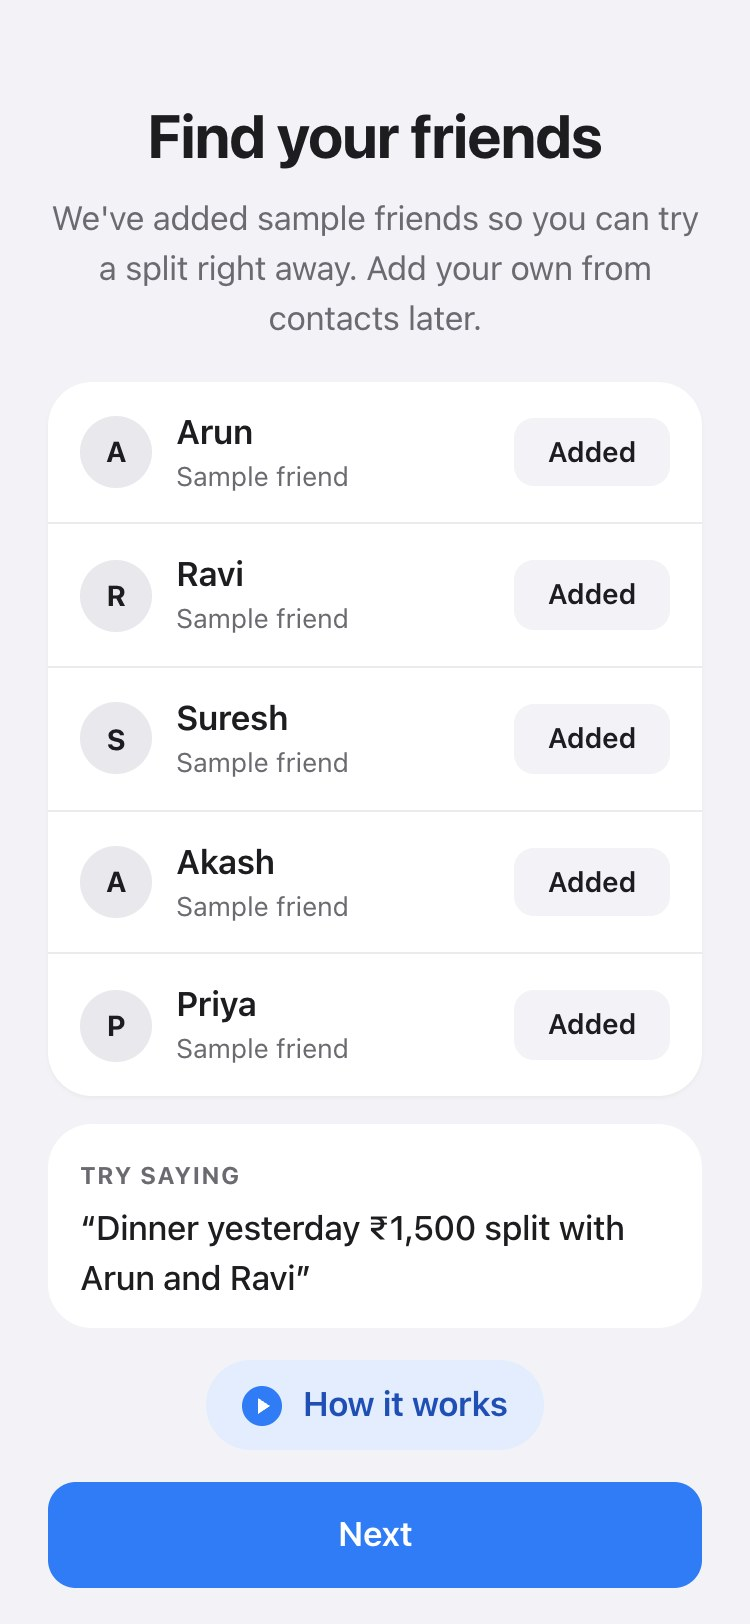
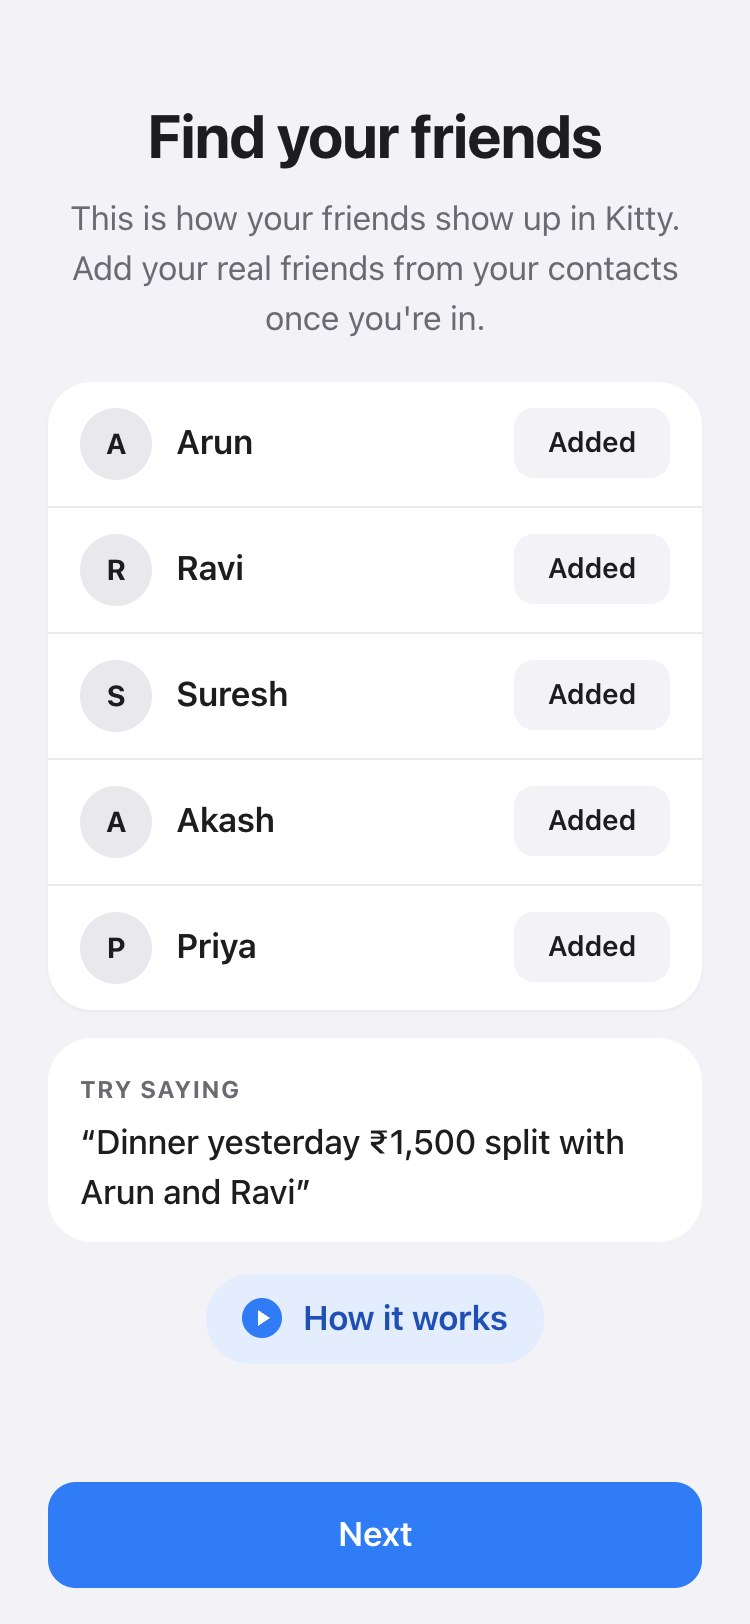
Sample friends only in the tour, no pre-filled text, group step in How it works

diff --git a/public/index.html b/public/index.html
@@ -13,7 +13,7 @@
 <meta name="mobile-web-app-capable" content="yes">
 <meta name="apple-mobile-web-app-title" content="Kitty">
 <meta name="apple-mobile-web-app-status-bar-style" content="default">
-<link rel="stylesheet" href="/static/style.css?v=14">
+<link rel="stylesheet" href="/static/style.css?v=15">
 </head>
 <body>
 <div class="app">
@@ -283,7 +283,7 @@
   <section id="findFriends" class="intro stage" hidden role="dialog" aria-modal="true" aria-label="Find your friends">
     <div class="stageBody">
       <h2 class="slideTitle">Find your friends</h2>
-      <p class="slideText">We've added sample friends so you can try a split right away. Add your own from contacts later.</p>
+      <p class="slideText">This is how your friends show up in Kitty. Add your real friends from your contacts once you're in.</p>
       <ul id="sampleList" class="list findList"></ul>
       <div class="tryCard">
         <span class="tryLabel">Try saying</span>
@@ -304,21 +304,34 @@
           <div class="perm"><span class="permIcon"><svg viewBox="0 0 24 24" aria-hidden="true"><path d="M6 2h12a2 2 0 0 1 2 2v16a2 2 0 0 1-2 2H6a2 2 0 0 1-2-2V4a2 2 0 0 1 2-2Zm6 9a3 3 0 1 0 0-6 3 3 0 0 0 0 6Zm-5 6h10c0-2.2-2.5-4-5-4s-5 1.8-5 4Z"/></svg></span><b>Allow Kitty to see your contacts?</b><small>Names stay on your phone</small><span class="permBtns"><i>Don't allow</i><i class="allow">Allow</i></span></div>
           <ul class="ctList"><li><span class="avatar">A</span>Arun</li><li><span class="avatar">R</span>Ravi</li><li><span class="avatar">S</span>Suresh</li><li><span class="avatar">A</span>Akash</li></ul>
         </div>
-        <!-- Step 2: voice -->
+        <!-- Step 2: make a group -->
         <div class="scene s1">
+          <div class="gTop"><b>Groups</b><span class="gNew">+ New group</span></div>
+          <div class="gForm">
+            <small>Group name</small>
+            <p class="gName"><span id="howGroupName"></span></p>
+            <small>Members</small>
+            <div class="gMembers"><span class="avatar me">Y</span><span class="avatar">A</span><span class="avatar">R</span><span class="avatar">S</span><span class="avatar">A</span></div>
+            <span class="gCreate">Create</span>
+          </div>
+          <div class="gRow"><span class="avatar cat">G</span><span><b>Goa trip</b><small>You + 4 friends</small></span></div>
+        </div>
+        <!-- Step 3: voice -->
+        <div class="scene s2">
+          <span class="gTag">Adding to Goa trip</span>
           <span class="howMic"><svg viewBox="0 0 24 24" aria-hidden="true"><path d="M12 15a3 3 0 0 0 3-3V6a3 3 0 1 0-6 0v6a3 3 0 0 0 3 3Zm5-3a5 5 0 0 1-10 0H5a7 7 0 0 0 6 6.93V21h2v-2.07A7 7 0 0 0 19 12h-2Z"/></svg></span>
           <div class="howWave" aria-hidden="true"><i></i><i></i><i></i><i></i><i></i><i></i><i></i><i></i><i></i></div>
           <div class="bubble howBubble"><span class="typing" id="howTyping"></span></div>
         </div>
         <!-- Step 3: names appear -->
-        <div class="scene s2">
+        <div class="scene s3">
           <div class="howHead"><b>Dinner</b><span>₹10,000</span></div>
           <small class="howSub">Split between</small>
           <div class="pills"><i>You</i><i>Ravi</i><i>Suresh</i><i>Akash</i><i>Arun</i></div>
           <span class="fakeNext">Next</span>
         </div>
         <!-- Step 4: split and WhatsApp -->
-        <div class="scene s3">
+        <div class="scene s4">
           <div class="howSplit"><p><span>You</span><b>₹2,000</b></p><p><span>Ravi</span><b>₹2,000</b></p><p><span>Suresh</span><b>₹2,000</b></p><p><span>Akash</span><b>₹2,000</b></p><p><span>Arun</span><b>₹2,000</b></p></div>
           <div class="waChat"><span class="waTop"><svg viewBox="0 0 24 24" aria-hidden="true"><path d="M12 2a10 10 0 0 0-8.6 15.1L2 22l5-1.3A10 10 0 1 0 12 2Zm5.4 14.1c-.2.6-1.3 1.2-1.8 1.2-.5.1-1 .2-3.3-.7-2.8-1.1-4.5-3.9-4.7-4.1-.1-.2-1.1-1.5-1.1-2.9s.7-2 1-2.3c.2-.3.5-.3.7-.3h.5c.2 0 .4 0 .6.5l.8 2c.1.2.1.4 0 .5l-.3.5-.4.4c-.1.1-.3.3-.1.6.2.3.7 1.1 1.5 1.8 1 .9 1.9 1.2 2.2 1.3.3.1.4.1.6-.1l.8-1c.2-.3.4-.2.6-.1l1.9.9c.3.1.5.2.5.3.1.2.1.6-.1 1.2Z"/></svg>WhatsApp</span><p class="waMsg">Dinner ₹10,000 split on Kitty: ₹2,000 each. Pick a chat and send.</p></div>
         </div>
@@ -363,6 +376,6 @@
   <div id="toast" class="toast" role="status" hidden></div>
 </div>
 <div id="print" class="print" aria-hidden="true"></div>
-<script src="/static/app.js?v=15"></script>
+<script src="/static/app.js?v=16"></script>
 </body>
 </html>

diff --git a/public/static/app.js b/public/static/app.js
@@ -469,7 +469,7 @@ function renderFriends(friends) {
     const li = el("li", "pay");
     const amt = el("span", "amt " + (v > 0 ? "get" : v < 0 ? "owe" : "zero"));
     amt.append(el("small", null, v > 0 ? "owes you" : v < 0 ? "you owe" : "settled up"), el("strong", null, v ? rupees(Math.abs(v)) : ""));
-    li.append(who(n, groups || ((state.samples || []).includes(n) ? "Sample friend" : "Not in a group yet")), amt);
+    li.append(who(n, groups || "Not in a group yet"), amt);
     if (v > 0) { owingMe++; li.append(remindLink(n, v)); }
     const used = state.groups.some((g) => g.expenses.some((e) => e.payer === n || e.participants.includes(n)));
     if (!used && (state.friends || []).includes(n)) {
@@ -702,6 +702,11 @@ async function renderAll() {
   renderFriends(friends);
   renderGroups();
   if (!$("view-group").hidden) renderGroup();
+}
+if (state.samples) {
+  const used = new Set(state.groups.flatMap((g) => g.expenses.flatMap((e) => [e.payer, ...e.participants])));
+  state.friends = (state.friends || []).filter((f) => !state.samples.includes(f) || used.has(f));
+  delete state.samples;
 }
 persist(); // saves data brought over from the first version
 paintLangs();
@@ -986,7 +991,7 @@ function paintSamples() {
     b.setAttribute("aria-pressed", on);
     b.setAttribute("aria-label", (on ? "Remove " : "Add ") + n);
     b.onclick = () => { on ? samplePicked.delete(n) : samplePicked.add(n); paintSamples(); };
-    li.append(who(n, "Sample friend"), b);
+    li.append(who(n), b);
     return li;
   }));
 }
@@ -1006,9 +1011,6 @@ function openFindFriends() {
   document.body.classList.remove("intro-open");
 }
 function finishOnboarding() {
-  const picked = SAMPLE_FRIENDS.filter((n) => samplePicked.has(n));
-  state.friends = [...new Set([...(state.friends || []), ...picked])];
-  state.samples = [...new Set([...(state.samples || []), ...picked])];
   state.onboarded = TOUR_VERSION;
   persist();
   hideStage("findFriends"); hideStage("how"); hideStage("intro");
@@ -1016,8 +1018,6 @@ function finishOnboarding() {
   stopHow();
   go("home");
   renderAll();
-  // Ready to try: the example from the Find friends screen, if those friends were kept
-  if (picked.includes("Arun") && picked.includes("Ravi")) $("typed").value = "Dinner yesterday ₹1,500 split with Arun and Ravi";
   toast(`Welcome, ${state.profile.name.split(" ")[0]}`);
   if (!state.contactsAsked) setTimeout(openContactsAsk, 1400);
 }
@@ -1027,6 +1027,7 @@ $("howBtn").addEventListener("click", () => { showStage("how"); showHow(0); });
 // ---------- "How it works": illustrated with CSS and SVG ----------
 const HOW = [
   { title: "Allow your contacts", text: "Kitty reads your friends' names on your phone, so it knows who you mean." },
+  { title: "Make a group", text: "Make one for a trip, your flat or office lunches. Add friends once, then just say the expense." },
   { title: "Just say it", text: "Tap the mic and say the expense the way you'd tell a friend." },
   { title: "Kitty finds the people", text: "The names you said show up, ready to check. Tap Next when it looks right." },
   { title: "Split and share", text: "Kitty splits it equally and opens WhatsApp with the message ready to send." },
@@ -1047,7 +1048,15 @@ function showHow(i) {
   $("howSkip").hidden = i === HOW.length - 1;
   const t = $("howTyping");
   t.textContent = "";
+  const g = $("howGroupName");
+  g.textContent = "";
   if (i === 1) {
+    const chars = [..."Goa trip"];
+    let n = 0;
+    const type = () => { g.textContent = chars.slice(0, ++n).join(""); if (n < chars.length) howTimer = setTimeout(type, 110); };
+    howTimer = setTimeout(type, 900);
+  }
+  if (i === 2) {
     const chars = [...HOW_SAY];
     let n = 0;
     const type = () => { t.textContent = chars.slice(0, ++n).join(""); if (n < chars.length) howTimer = setTimeout(type, 38); };

diff --git a/public/static/style.css b/public/static/style.css
@@ -400,7 +400,7 @@ textarea.field{resize:none;line-height:1.4;font:inherit}
 .howStage{flex:1;overflow-y:auto;display:flex;flex-direction:column;align-items:center;justify-content:safe center;padding:44px 24px 8px;text-align:center}
 .phone{position:relative;width:250px;height:300px;border-radius:34px;background:var(--gray);border:8px solid #1D1D1F;box-shadow:0 30px 60px -30px rgba(14,26,51,.6);overflow:hidden}
 .scene{position:absolute;inset:0;padding:22px 14px;display:none;flex-direction:column;align-items:center;gap:12px}
-.phone[data-step="0"] .s0,.phone[data-step="1"] .s1,.phone[data-step="2"] .s2,.phone[data-step="3"] .s3{display:flex}
+.phone[data-step="0"] .s0,.phone[data-step="1"] .s1,.phone[data-step="2"] .s2,.phone[data-step="3"] .s3,.phone[data-step="4"] .s4{display:flex}
 /* step 1: permission, then the list */
 .perm{width:100%;background:var(--card);border-radius:18px;padding:14px;display:grid;justify-items:center;gap:4px;box-shadow:0 10px 24px -16px rgba(0,0,0,.4)}
 .perm b{font-size:.92rem}.perm small{color:var(--muted);font-size:.78rem}
@@ -468,3 +468,24 @@ textarea.field{resize:none;line-height:1.4;font:inherit}
 .shareWa{display:flex;align-items:center;justify-content:center;gap:8px;width:100%;margin-top:14px;padding:13px;border-radius:14px;border:0;background:var(--green);color:#fff;font-weight:600}
 .shareWa svg{width:20px;height:20px;fill:currentColor}
 .shareWa:disabled{opacity:.35;cursor:not-allowed}
+
+/* How it works: making a group */
+.gTop{width:100%;display:flex;justify-content:space-between;align-items:center;font-size:1rem}
+.gNew{font-size:.78rem;font-weight:600;color:#fff;background:var(--blue);border-radius:999px;padding:5px 10px}
+.play .gNew{animation:press .5s .4s var(--ease)}
+.gForm{width:100%;background:var(--card);border-radius:16px;padding:10px 12px;text-align:left;display:grid;gap:4px;opacity:0}
+.play .gForm{animation:rise .4s .8s var(--ease) both,permOut .4s 4.4s var(--ease) forwards}
+.gForm small{color:var(--muted);font-size:.72rem}
+.gName{margin:0 0 4px;font-weight:600;min-height:1.4em;border-bottom:2px solid var(--blue-soft)}
+.gName span::after{content:"";display:inline-block;width:2px;height:1em;background:var(--blue);margin-left:1px;vertical-align:-2px;animation:blink 1s steps(1) infinite}
+.gMembers{display:flex;gap:4px}
+.gMembers .avatar{width:28px;height:28px;font-size:.75rem;opacity:0}
+.play .gMembers .avatar{animation:pop .35s var(--ease) both}
+.play .gMembers .avatar:nth-child(1){animation-delay:2.1s}.play .gMembers .avatar:nth-child(2){animation-delay:2.35s}.play .gMembers .avatar:nth-child(3){animation-delay:2.6s}.play .gMembers .avatar:nth-child(4){animation-delay:2.85s}.play .gMembers .avatar:nth-child(5){animation-delay:3.1s}
+.gCreate{margin-top:6px;text-align:center;padding:7px;border-radius:10px;background:var(--blue);color:#fff;font-weight:600;font-size:.82rem}
+.play .gCreate{animation:press .5s 3.7s var(--ease)}
+.gRow{position:absolute;left:14px;right:14px;top:62px;display:flex;align-items:center;gap:10px;background:var(--card);border-radius:14px;padding:10px 12px;text-align:left;opacity:0}
+.gRow b{display:block;font-size:.92rem;line-height:1.3}.gRow small{display:block;color:var(--muted);font-size:.78rem;line-height:1.3}
+.gRow .avatar{width:32px;height:32px}
+.play .gRow{animation:pop .45s 4.7s var(--ease) both}
+.gTag{font-size:.72rem;font-weight:700;color:var(--blue-deep);background:var(--blue-soft);border-radius:999px;padding:4px 10px}

diff --git a/public/sw.js b/public/sw.js
@@ -1,5 +1,5 @@
 // Keeps the app shell available so it opens like an app. API calls always go to the network.
-const CACHE = "kitty-v18";
+const CACHE = "kitty-v19";
 const SHELL = ["/", "/static/style.css?v=13", "/static/app.js?v=14", "/manifest.webmanifest", "/icons/icon-192.png"];
 self.addEventListener("install", (e) => { e.waitUntil(caches.open(CACHE).then((c) => c.addAll(SHELL))); self.skipWaiting(); });
 self.addEventListener("activate", (e) => {

diff --git a/test-outputs/README.md b/test-outputs/README.md
@@ -32,13 +32,15 @@ The saved copy is from the held-back set (`cases_heldout.json`): 7 of 8 read cor
 
 | File | What it shows |
 |---|---|
-| 15-find-friends.jpg | After the name: five sample friends, the example to try, and "How it works" |
-| 16-how-contacts.jpg | How it works 1: allowing contacts, names appear |
-| 17-how-voice.jpg | How it works 2: the mic and "Share my expenses for last night dinner ₹10,000 with 5 people" |
-| 18-how-names.jpg | How it works 3: five names pop in one by one, then Next |
-| 19-how-whatsapp.jpg | How it works 4: ₹2,000 each, WhatsApp opens with the message ready |
+| 15-find-friends.jpg | After the name: five sample friends (for the tour only), the example to try, and "How it works" |
+| 16-how-1-contacts.jpg | How it works 1: allowing contacts, names appear |
+| 16-how-2-group-form.jpg | How it works 2, mid-way: typing "Goa trip" and adding members |
+| 16-how-2-group.jpg | How it works 2, end: the new group in the list |
+| 16-how-3-voice.jpg | How it works 3: the mic and "Share my expenses for last night dinner ₹10,000 with 5 people" |
+| 16-how-4-names.jpg | How it works 4: five names pop in one by one, then Next |
+| 16-how-5-whatsapp.jpg | How it works 5: ₹2,000 each, WhatsApp opens with the message ready |
 | 20-contacts-ask.jpg | Main app: "Now give your contacts access" |
-| 21-split-share.jpg | A real AI-read split (₹1,500 with Arun and Ravi) with Share on WhatsApp |
-| 22-friends-samples.jpg | Friends tab with the sample friends marked |
+| 21-split-share.jpg | A real AI-read split (typed by the test: ₹1,500 with Arun and Ravi) with Share on WhatsApp |
+| 22-friends-after-tour.jpg | Friends tab after the tour: empty, the sample friends are not kept |
 
-Checks in the same run: sample friends saved; a spoken "Meena" matched to the contact "Meena Sharma" in the browser with nothing written to storage; the share message lists each share; browsers without a contact picker get a clear note.
+Checks in the same run: no sample friends saved and the type box empty after the tour; a spoken "Meena" matched to the contact "Meena Sharma" in the browser with nothing written to storage; the share message lists each share; browsers without a contact picker get a clear note.
